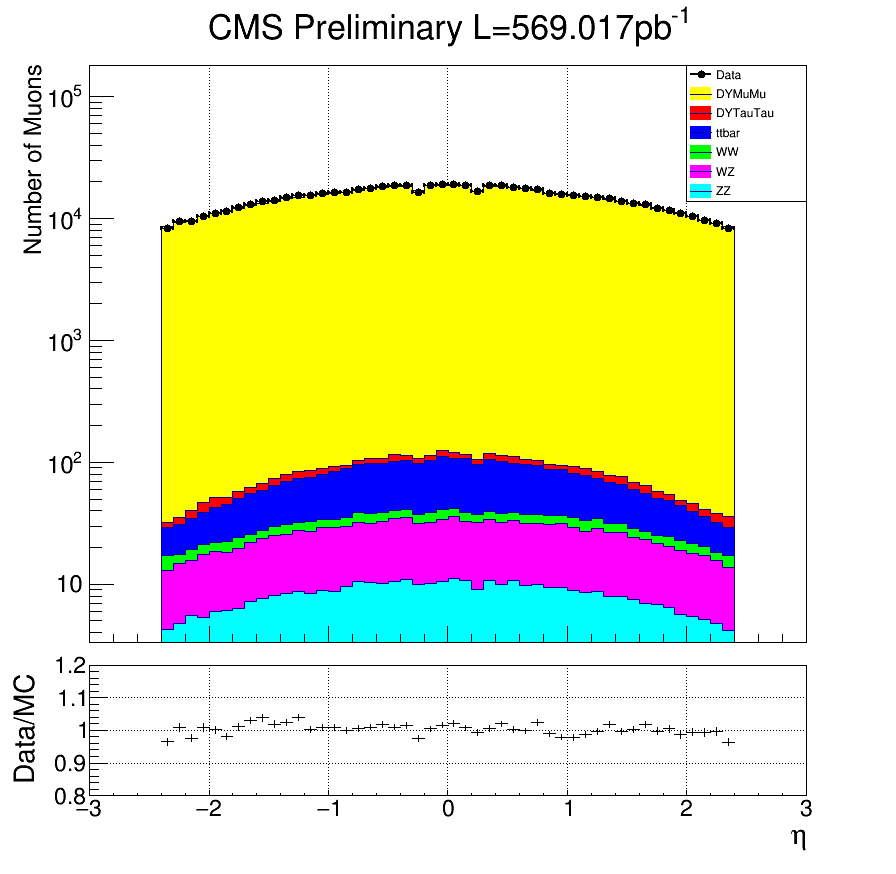
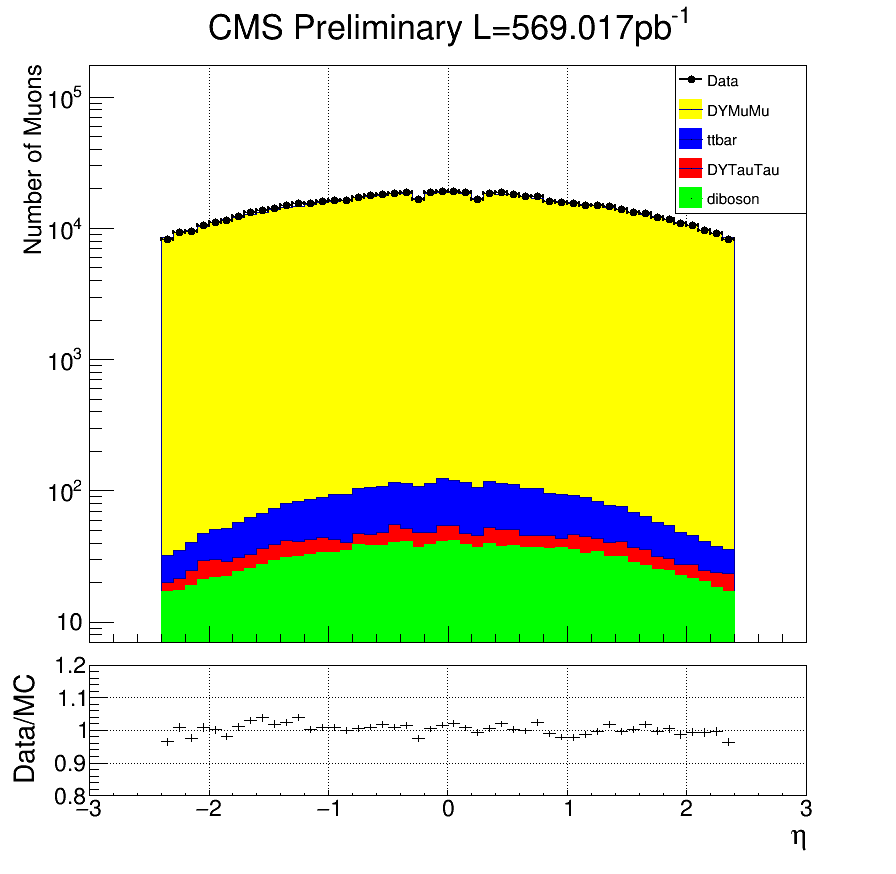
diboson integrated

diff --git a/MuonPlots/ratioplot.C b/MuonPlots/ratioplot.C
@@ -68,7 +68,7 @@ void ratioplot () {
 	// vector<TCanvas> c;
 	// c.push_back(c0);	c.push_back(c1);	c.push_back(c2);	c.push_back(c3);	c.push_back(c4);
 	//Int_t i = 0;
-	Int_t j = 1;
+	Int_t j = 2;
 	 //for (Int_t i = 0; i < 10; i++)
 	{
 		f1 = new TFile ("MuonIncludeBg.root");
@@ -154,26 +154,26 @@ void ratioplot () {
 			h5->SetFillColor(kBlue);
 			h5->SetLineWidth(0);
 			h7->SetFillColor(kGreen);
-			h7->SetLineWidth(0);
-			h8->SetFillColor(6);
-			h8->SetLineWidth(0);
-			h9->SetFillColor(7);
-			h9->SetLineWidth(0);
+			h7->SetLineColorAlpha(kGreen, 0);
+			h8->SetFillColor(kGreen);
+			h8->SetLineColorAlpha(kGreen, 0);
+			h9->SetFillColor(kGreen);
+			h9->SetLineColorAlpha(kGreen, 0);
 
 			if( Type[j] == "Pt")
 				hs->SetMinimum(0.01);
 			if( Type[j] == "eta")
 			{
 				hs->SetMaximum(1e5);
-				hs->SetMinimum(10);
+				hs->SetMinimum(20);
 			}
 
 			hs->Add(h9);
 			hs->Add(h8);
 			hs->Add(h7);
 			//hs->Add(h6);
-			hs->Add(h5);
 			hs->Add(h4);
+			hs->Add(h5);
 			hs->Add(h2);
 
 			//h1->Draw("E1");    // Draw Data
@@ -193,12 +193,12 @@ void ratioplot () {
 			leg = new TLegend (.70, .65, .90, .90);
 			leg->AddEntry(h1, "Data");
 			leg->AddEntry(h2, "DYMuMu");
-			leg->AddEntry(h4, "DYTauTau");
 			leg->AddEntry(h5, "ttbar");
+			leg->AddEntry(h4, "DYTauTau");
 			//leg->AddEntry(h6, "WJets");
-			leg->AddEntry(h7, "WW");
-			leg->AddEntry(h8, "WZ");
-			leg->AddEntry(h9, "ZZ");
+			leg->AddEntry(h7, "diboson");
+			//leg->AddEntry(h8, "WZ");
+			//leg->AddEntry(h9, "ZZ");
 
 			leg->Draw();
 
